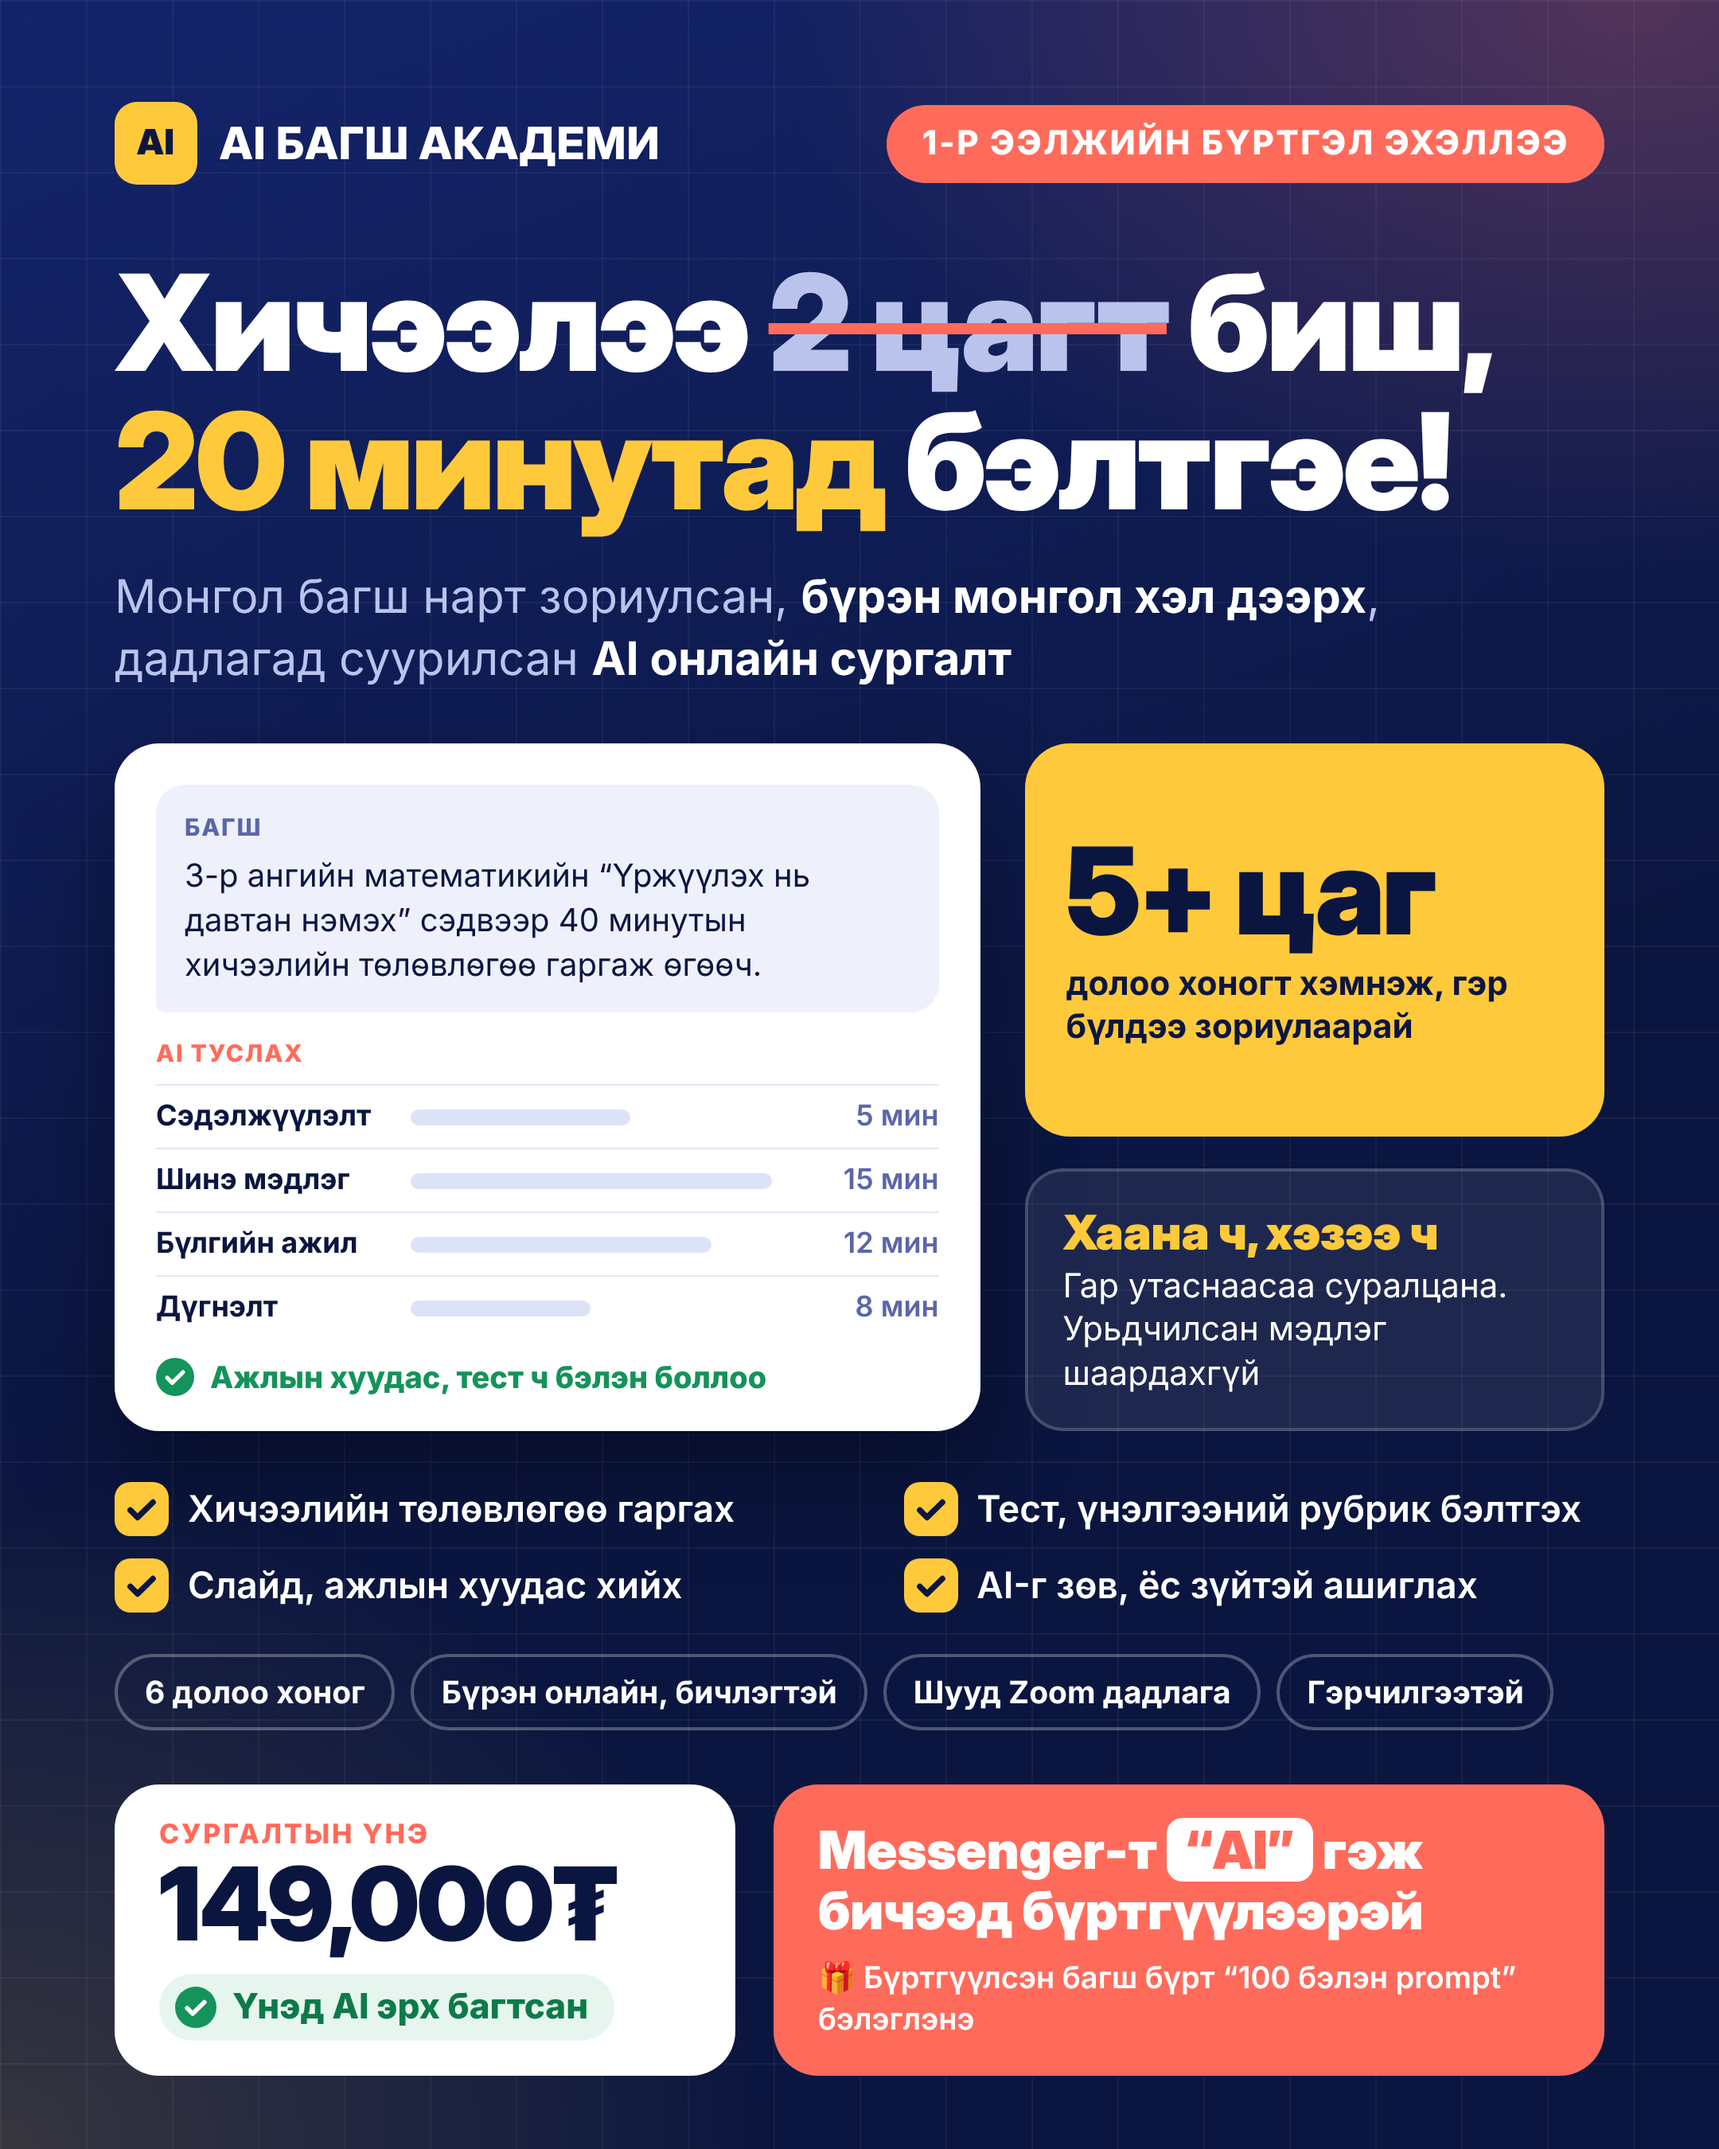
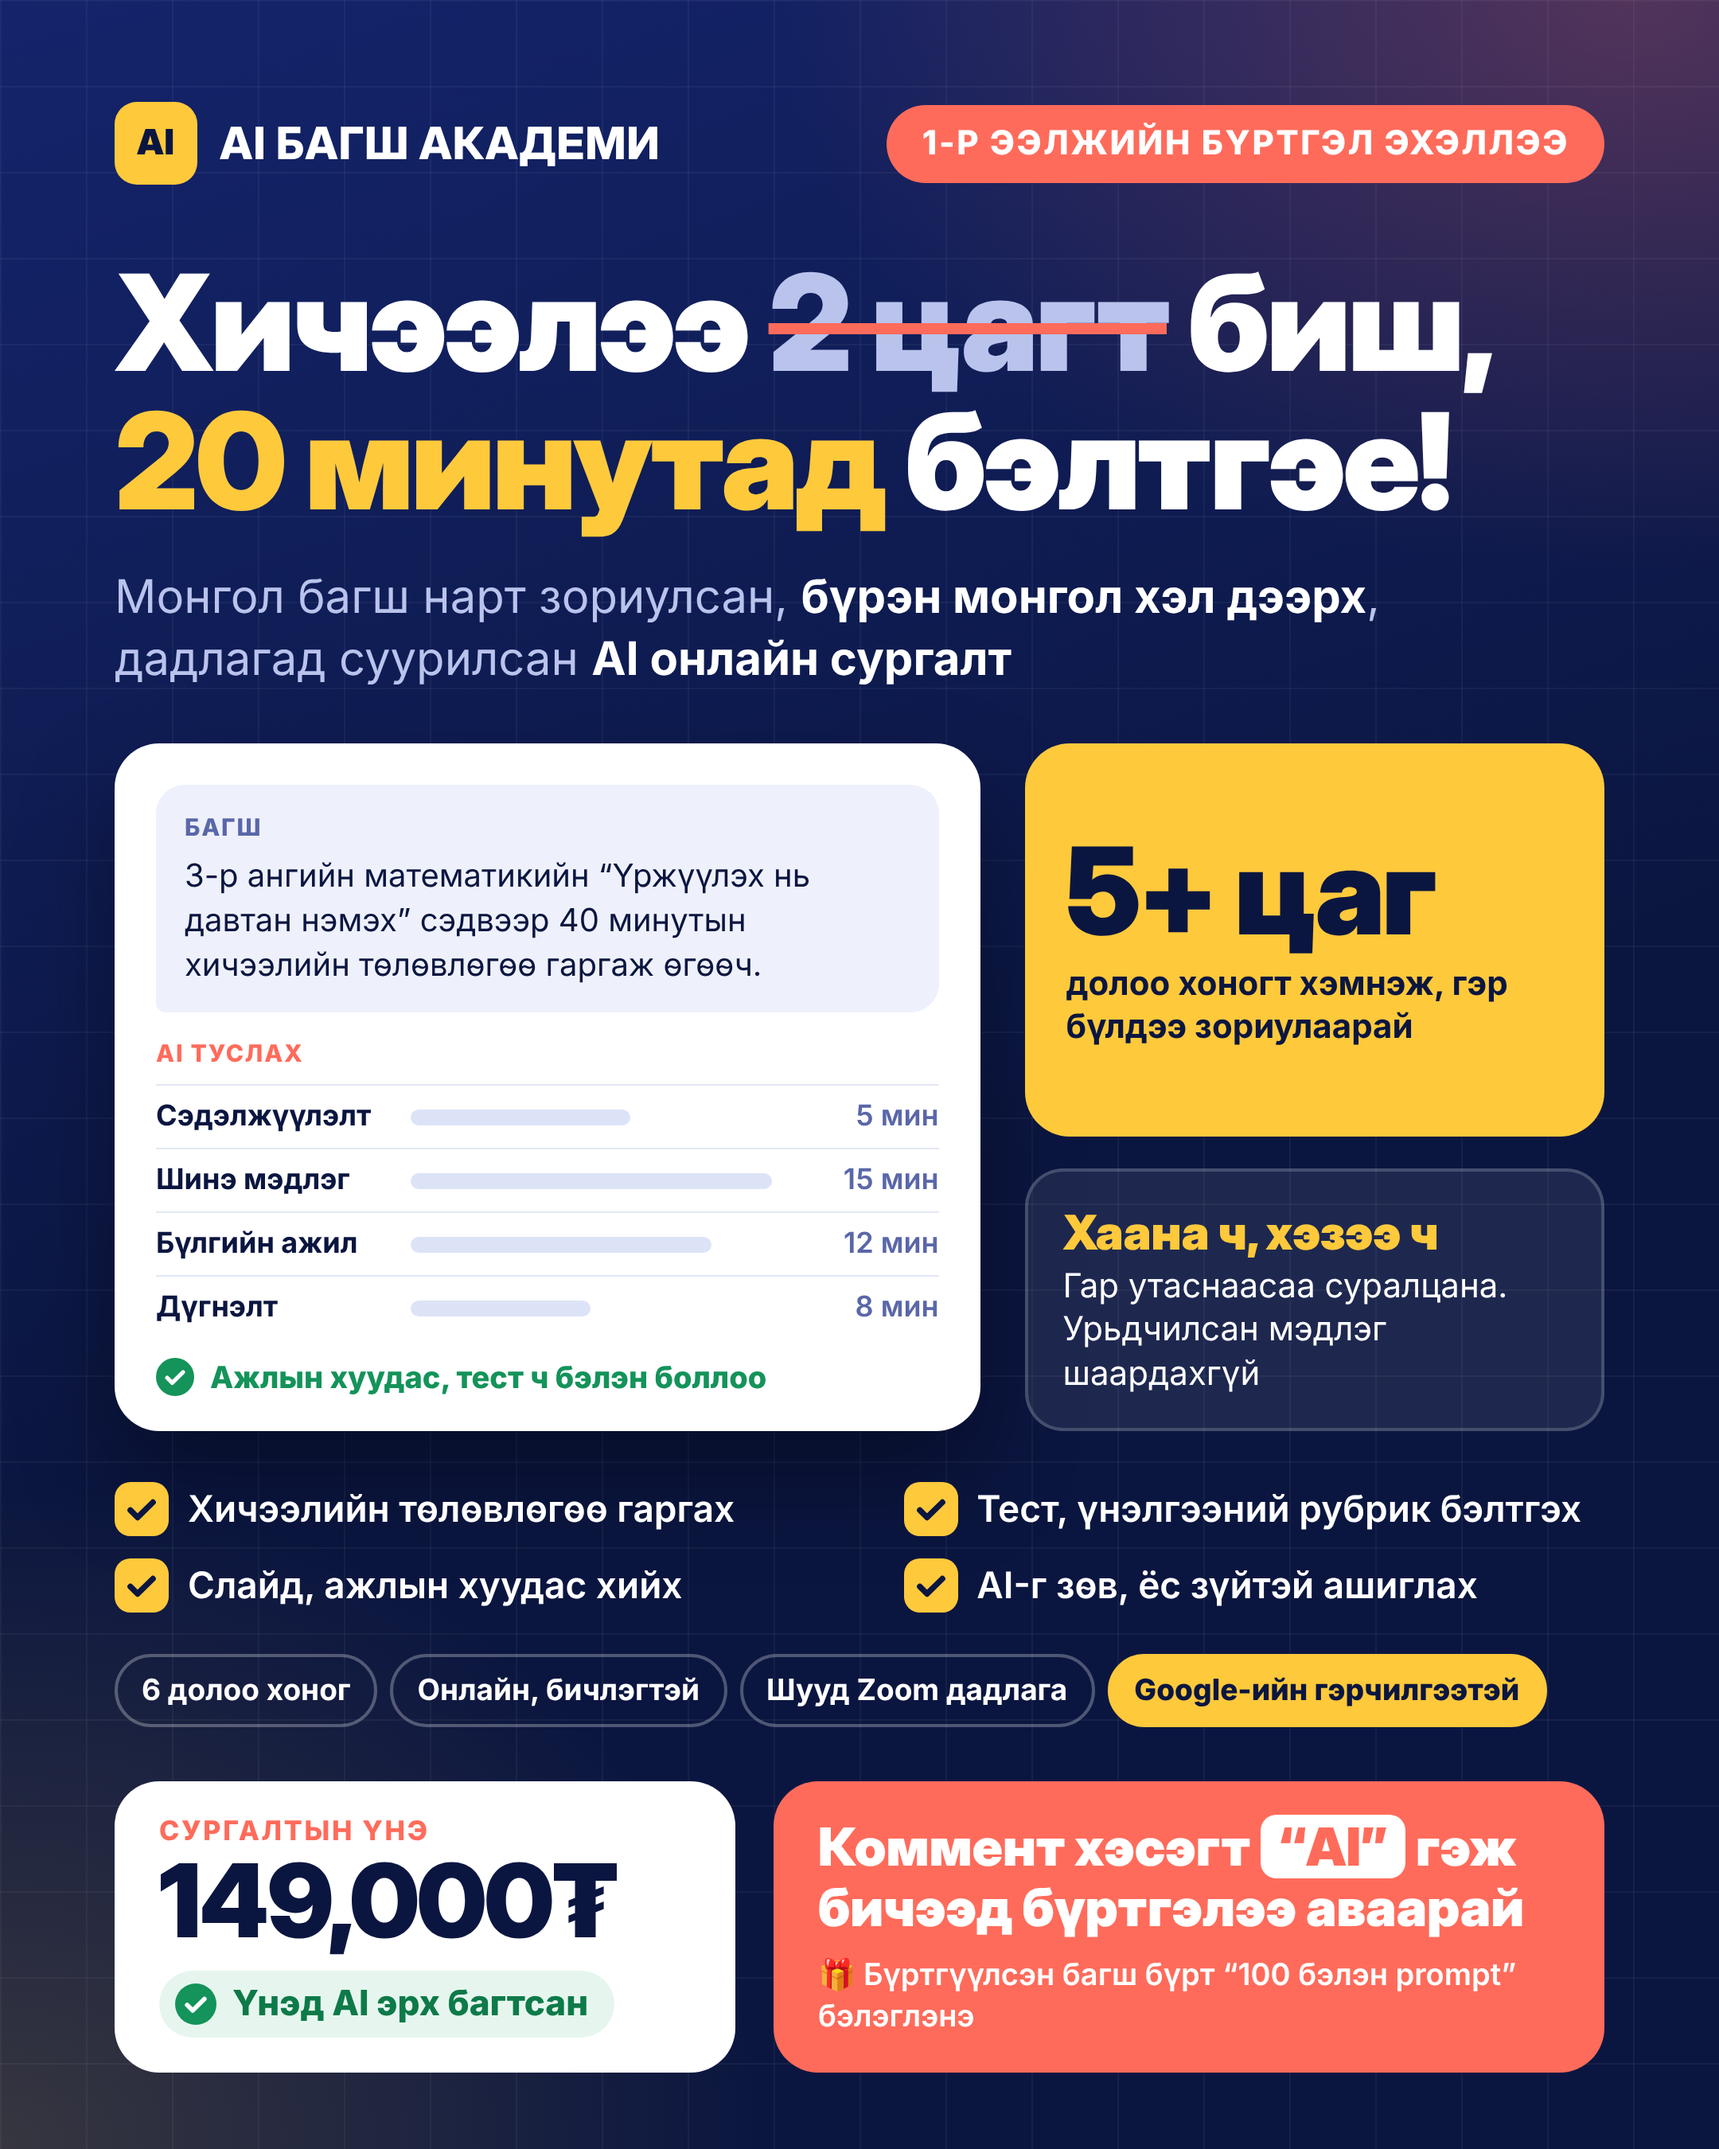
Poster: comment-to-register CTA and Google certificate highlight
Claude-Session: https://claude.ai/code/session_011MF5bAcquYhXXWvdqZTLq1

Changed region(s): [[0.4653, 0.84, 0.8995, 0.9644], [0.062, 0.7467, 0.8995, 0.8089], [0.0931, 0.84, 0.3412, 0.9644]]

diff --git a/poster/poster.html b/poster/poster.html
@@ -58,8 +58,9 @@
   .li{display:flex;align-items:center;gap:12px;font-size:23px;font-weight:600;white-space:nowrap}
   .li svg{flex:none}
 
-  .facts{display:flex;gap:10px;margin-top:26px;flex-wrap:nowrap}
-  .fact{border:2px solid rgba(255,255,255,.28);border-radius:999px;padding:10px 17px;font-size:19.5px;font-weight:700;white-space:nowrap}
+  .facts{display:flex;gap:8px;margin-top:26px;flex-wrap:nowrap}
+  .fact{border:2px solid rgba(255,255,255,.28);border-radius:999px;padding:10px 15px;font-size:18.5px;font-weight:700;white-space:nowrap}
+  .fact.gold{background:var(--yellow);border-color:var(--yellow);color:var(--bg);font-weight:800}
 
   .bottom{margin-top:auto;padding-top:34px;display:flex;gap:24px;align-items:stretch}
   .price{background:#fff;color:var(--bg);border-radius:28px;padding:22px 28px;min-width:390px}
@@ -75,6 +76,8 @@
   .foot{margin-top:18px;font-size:18px;color:var(--muted);display:flex;justify-content:space-between}
 
   /* ---- story (1080x1920) ---- */
+  .story-only{display:none}
+  body.story .story-only{display:inline} body.story .feed-only{display:none}
   body.story .wrap{padding:150px 72px 170px}
   body.story h1{font-size:88px;margin-top:70px}
   body.story .sub{font-size:33px}
@@ -86,6 +89,7 @@
   body.story .learn{margin-top:36px}
   body.story .facts{margin-top:28px}
   body.story .bottom{flex-direction:column}
+  body.story .cta .big{font-size:31px}
   body.story .price{display:flex;align-items:center;justify-content:space-between}
 </style>
 </head>
@@ -135,9 +139,9 @@
 
   <div class="facts">
     <div class="fact">6 долоо хоног</div>
-    <div class="fact">Бүрэн онлайн, бичлэгтэй</div>
+    <div class="fact">Онлайн, бичлэгтэй</div>
     <div class="fact">Шууд Zoom дадлага</div>
-    <div class="fact">Гэрчилгээтэй</div>
+    <div class="fact gold">Google-ийн гэрчилгээтэй</div>
   </div>
 
   <div class="bottom">
@@ -149,7 +153,7 @@
       <div class="lim"><svg width="26" height="26" viewBox="0 0 24 24"><circle cx="12" cy="12" r="12" fill="#14935A"/><path d="M7 12.5l3.2 3.2L17 9" stroke="#fff" stroke-width="2.6" fill="none" stroke-linecap="round" stroke-linejoin="round"/></svg>Үнэд AI эрх багтсан</div>
     </div>
     <div class="cta">
-      <div class="big"><span class="nw">Messenger-т</span> <span class="kw">“AI”</span> гэж бичээд бүртгүүлээрэй</div>
+      <div class="big"><span class="feed-only">Коммент хэсэгт</span><span class="story-only">Мессежээр</span> <span class="kw">“AI”</span> гэж бичээд бүртгэлээ аваарай</div>
       <div class="small">🎁 Бүртгүүлсэн багш бүрт “100 бэлэн prompt” бэлэглэнэ</div>
     </div>
   </div>
